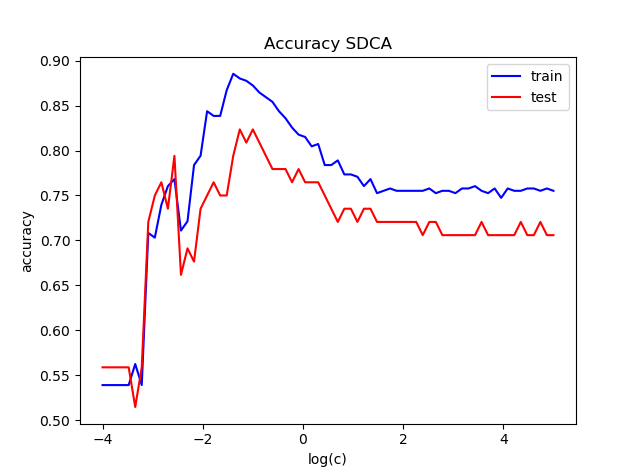
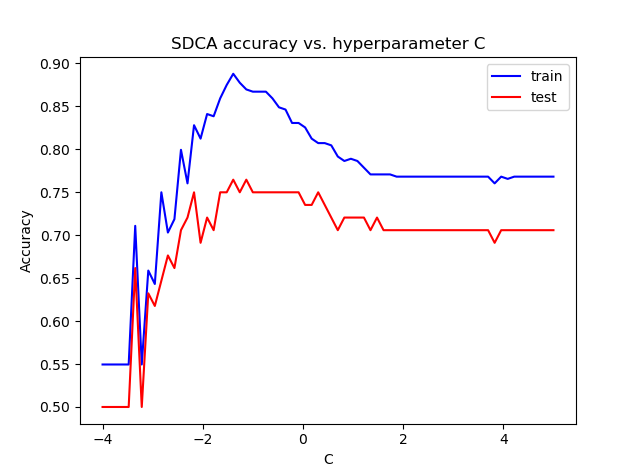
validation

diff --git a/heart_disease.py b/heart_disease.py
@@ -52,9 +52,8 @@ def get_hist_accuracy(x, y, hist_w, estimator):
 
 ## paramètre C par validation croisée
 
-if False:
-    X_train, X_test, y_train, y_test = train_test_split(Xnorm, Y, test_size=0.15)
-    vect_param = 10**np.linspace(-4, 5, 70)
+def eval_C(data, labels, vect_param, nb_epoch, eps_base=10**-6):
+    X_train, X_test, y_train, y_test = train_test_split(data, labels, test_size=0.15)
     
     vect_train_accuracy_sgd = []
     vect_train_accuracy_sdca = []
@@ -67,7 +66,7 @@ if False:
     
     for param in vect_param:
         # make estimator
-        sgd = LogisticSGD(c=param, eps=1e-6)
+        sgd = LogisticSGD(c=param, eps=eps_base)
         sgd_clf = LogisticRegression(optimizer=sgd, projection=chosen_proj)
         
         sdca = LogisticSDCA(c=param)
@@ -84,20 +83,25 @@ if False:
         vect_test_accuracy_sdca.append(sdca_clf.score_accuracy(X_test, y_test))
     
     plt.figure()
-    plt.plot(np.log10(vect_param), vect_train_accuracy_sgd, 'b', label="train")
-    plt.plot(np.log10(vect_param), vect_test_accuracy_sgd, 'r', label="test")
-    plt.title("Accuracy SGD")
-    plt.xlabel("log(c)")
-    plt.ylabel("accuracy")
+    plt.semilogx(vect_param, vect_train_accuracy_sgd, 'b', label="train")
+    plt.semilogx(vect_param, vect_test_accuracy_sgd, 'r', label="test")
+    plt.title("SGD accuracy vs. hyperparameter C")
+    plt.xlabel("C")
+    plt.ylabel("Accuracy")
     plt.legend()
     
     plt.figure()
     plt.plot(np.log10(vect_param), vect_train_accuracy_sdca, 'b', label="train")
     plt.plot(np.log10(vect_param), vect_test_accuracy_sdca, 'r', label="test")
-    plt.title("Accuracy SDCA")
-    plt.xlabel("log(c)")
-    plt.ylabel("accuracy")
+    plt.title("SDCA accuracy vs. hyperparameter C")
+    plt.xlabel("C")
+    plt.ylabel("Accuracy")
     plt.legend()
+
+if False:
+    vect_C = 10**np.linspace(-4, 5, 70)
+    nb_epoch = 30
+    eval_C(Xnorm, Y, vect_C, nb_epoch)
 
 '''
 Bon paramètre :
@@ -109,9 +113,8 @@ c_sdca = 10**-1
 
 ## Paramètre eps pour SGD par validation croisée
 
-if False:
-    X_train, X_test, y_train, y_test = train_test_split(Xnorm, Y, test_size=0.15)
-    vect_param = 10**np.linspace(-10, 0, 70)
+def eval_eps(data, labels, vect_param, nb_epoch, param_c=10**3):
+    X_train, X_test, y_train, y_test = train_test_split(data, labels, test_size=0.15)
     
     vect_train_accuracy_sgd = []
     
@@ -122,7 +125,7 @@ if False:
     
     for param in vect_param:
         # make estimator
-        sgd = LogisticSGD(c=10**3, eps=param)
+        sgd = LogisticSGD(c=param_c, eps=param)
         sgd_clf = LogisticRegression(optimizer=sgd, projection=chosen_proj)
         
         # train estimators without history
@@ -140,6 +143,12 @@ if False:
     plt.ylabel("Accuracy")
     plt.legend()
 
+
+if False:
+    vect_eps = 10**np.linspace(-10, 0, 70)
+    nb_epoch = 60
+    eval_eps(Xnorm, Y, vect_eps, nb_epoch)
+
 '''
 Best hyperparameter
 eps = 5*10**-6 for SGD
@@ -149,7 +158,7 @@ eps_sgd = 5*10**-6
 
 ## Training
 
-if True:
+if False:
     nb_epoch = 10
     
     # make estimator
@@ -231,6 +240,8 @@ if False:
     plt.ylabel("loss")
     plt.legend()
 
+## Polynomial projection : degree 2
+
 def proj_degr2(X):
     N, dim = X.shape
     new_dim = int(dim*(dim+3)/2)
@@ -245,6 +256,13 @@ def proj_degr2(X):
             Z[:,k] = np.multiply(X[:,i], X[:,j])
             k += 1
     return Z
+
+
+X_poly = proj_degr2(X)
+normalizer = Normalizer(X_poly)
+Xnorm_poly = normalizer.normalize(X_poly)
+
+
 
 if False:
     # make estimator
